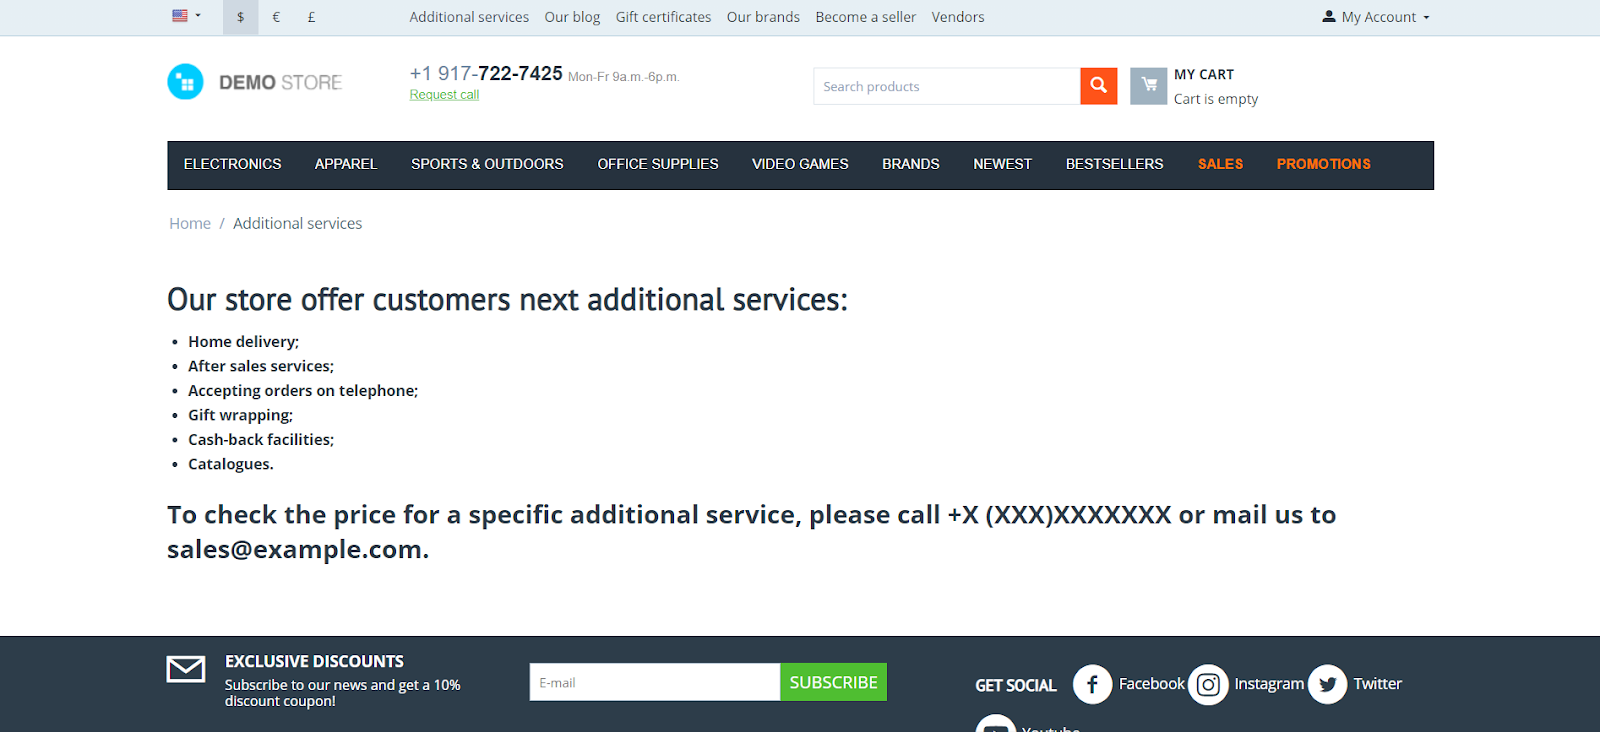
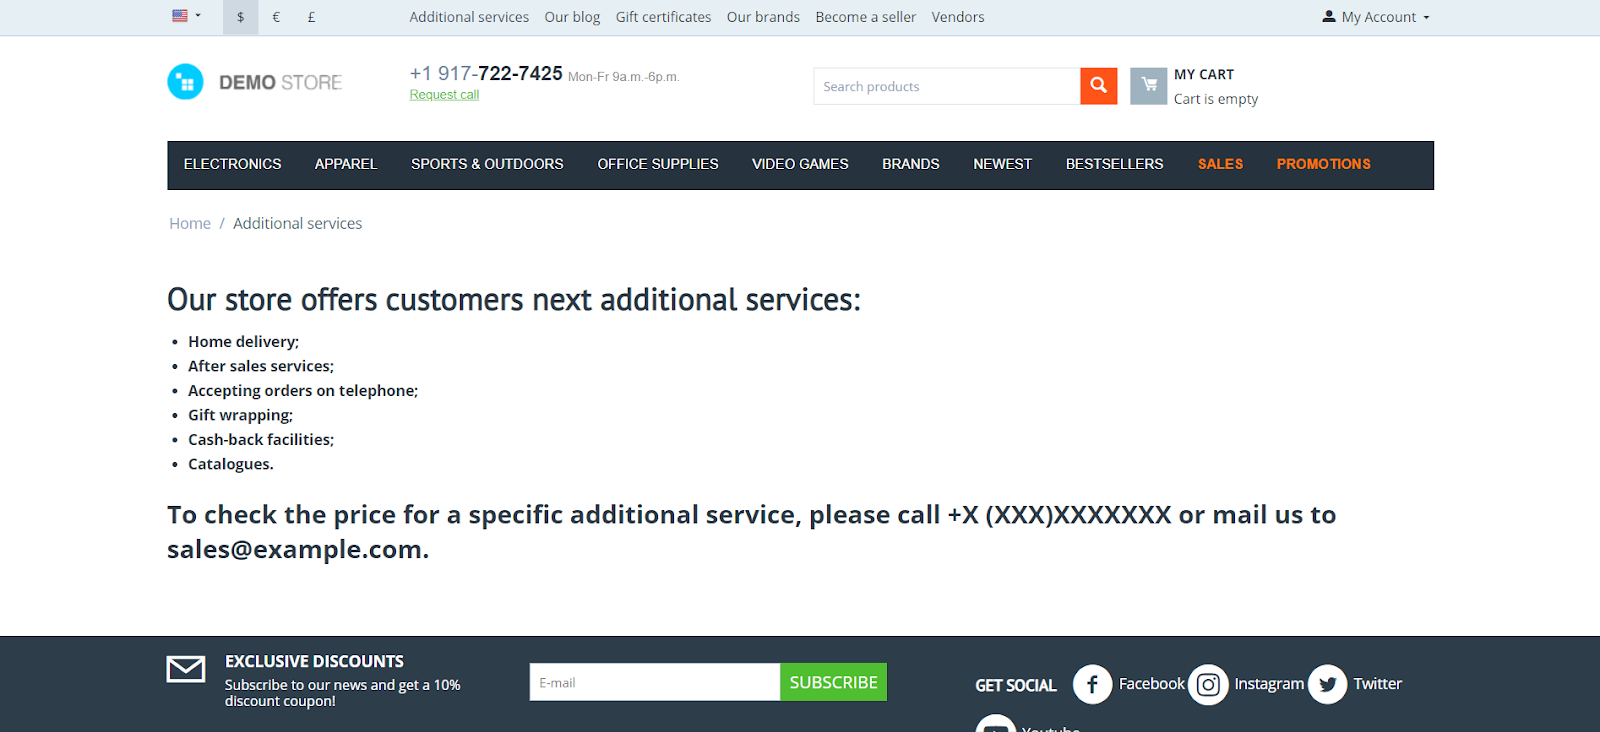
Typos corrected

Changed region(s): [[0.2188, 0.3907, 0.5312, 0.4508]]

diff --git a/ru/user_guide/orders/call_requests/index.rst b/ru/user_guide/orders/call_requests/index.rst
@@ -47,4 +47,4 @@
 
 * **Не отвечает** — звонок был сделан, но никто не ответил.
 
-Чтобы удалить заявку, наведите на неё курсор мыши. Вы увидите кнопку с изображением шестерёнки. Нажмите на неё и выберите **Удалить**. Если  нежно удалить сразу несколько заявок, отметьте их галочками, нажмите на кнопку с изображением шестерёнки в правой верхней части страницы и выберите **Удалить выбранные**.
+Чтобы удалить заявку, наведите на неё курсор мыши. Вы увидите кнопку с изображением шестерёнки. Нажмите на неё и выберите **Удалить**. Если  нужно удалить сразу несколько заявок, отметьте их галочками, нажмите на кнопку с изображением шестерёнки в правой верхней части страницы и выберите **Удалить выбранные**.

diff --git a/ru/history/4131.rst b/ru/history/4131.rst
@@ -266,7 +266,7 @@
 
 [!] Для Weight conditions нельзя было указать более 2 знаков после запятой, ошибка исправлена, теперь для цены 2 знака после точки, для веса - 3, а для количества - целые числа. Не работал поиск по весу с 3 знаками после запятой. Исправлено.
 
-[!] Доставка и налоги: Регионы: После с названием региона было активно в панели продавца. Исправлено.
+[!] Доставка и налоги: Регионы: Поле с названием региона было активно в панели продавца. Исправлено.
 
 [!] Заказы: При добавлении товара в заказ с примененной промо-акцией возникали ошибки. Исправлено.
 

diff --git a/en/user_guide/addons/buy_together/set_buy_together.rst b/en/user_guide/addons/buy_together/set_buy_together.rst
@@ -18,7 +18,7 @@ To add the buy together products for a product:
 *   Find the product for which you want to show products that are bought with it and click on its name.
 *   Switch to the **Buy together** tab.
 *   Click the **Add combination** button.
-*   In the **Name** unput field type the name of the new combination, type the **Description** if you want to, define the time period in the **Available from**, **Available till** fields, and tick the **Display in promotions** checkbox if necessary.
+*   In the **Name** input field type the name of the new combination, type the **Description** if you want to, define the time period in the **Available from**, **Available till** fields, and tick the **Display in promotions** checkbox if necessary.
 
 .. image:: img/buy_together_01.png
 	:align: center

diff --git a/en/user_guide/users/vendors/account_balance.rst b/en/user_guide/users/vendors/account_balance.rst
@@ -74,7 +74,7 @@ Marketplace owners issue **payouts** to collect money from vendors. When a marke
 
 In some cases, payouts can be issued and even completed automatically: 
 
-* The :doc:`/user_guide/addons/vendor_plans/index` add-on issues payouts with the *Pending* status. This is done to request one-time and periordic payments from vendors for being subscribed to a certain plan. 
+* The :doc:`/user_guide/addons/vendor_plans/index` add-on issues payouts with the *Pending* status. This is done to request one-time and periodic payments from vendors for being subscribed to a certain plan. 
 
 * The :doc:`/user_guide/addons/stripe_connect/index` add-on can change the status of payouts to *Completed*. This is done when you allow the add-on to collect payouts from vendors automatically.
 

diff --git a/ru/user_guide/settings/settings_wizzard.rst b/ru/user_guide/settings/settings_wizzard.rst
@@ -2,7 +2,7 @@
 Мастер настройки
 ****************
 
-С помощью мастера настройки можно сразу после установке за несколько шагов задать основные настройки магазина.
+С помощью мастера настройки можно сразу после установки за несколько шагов задать основные настройки магазина.
 
 .. hint::
 
